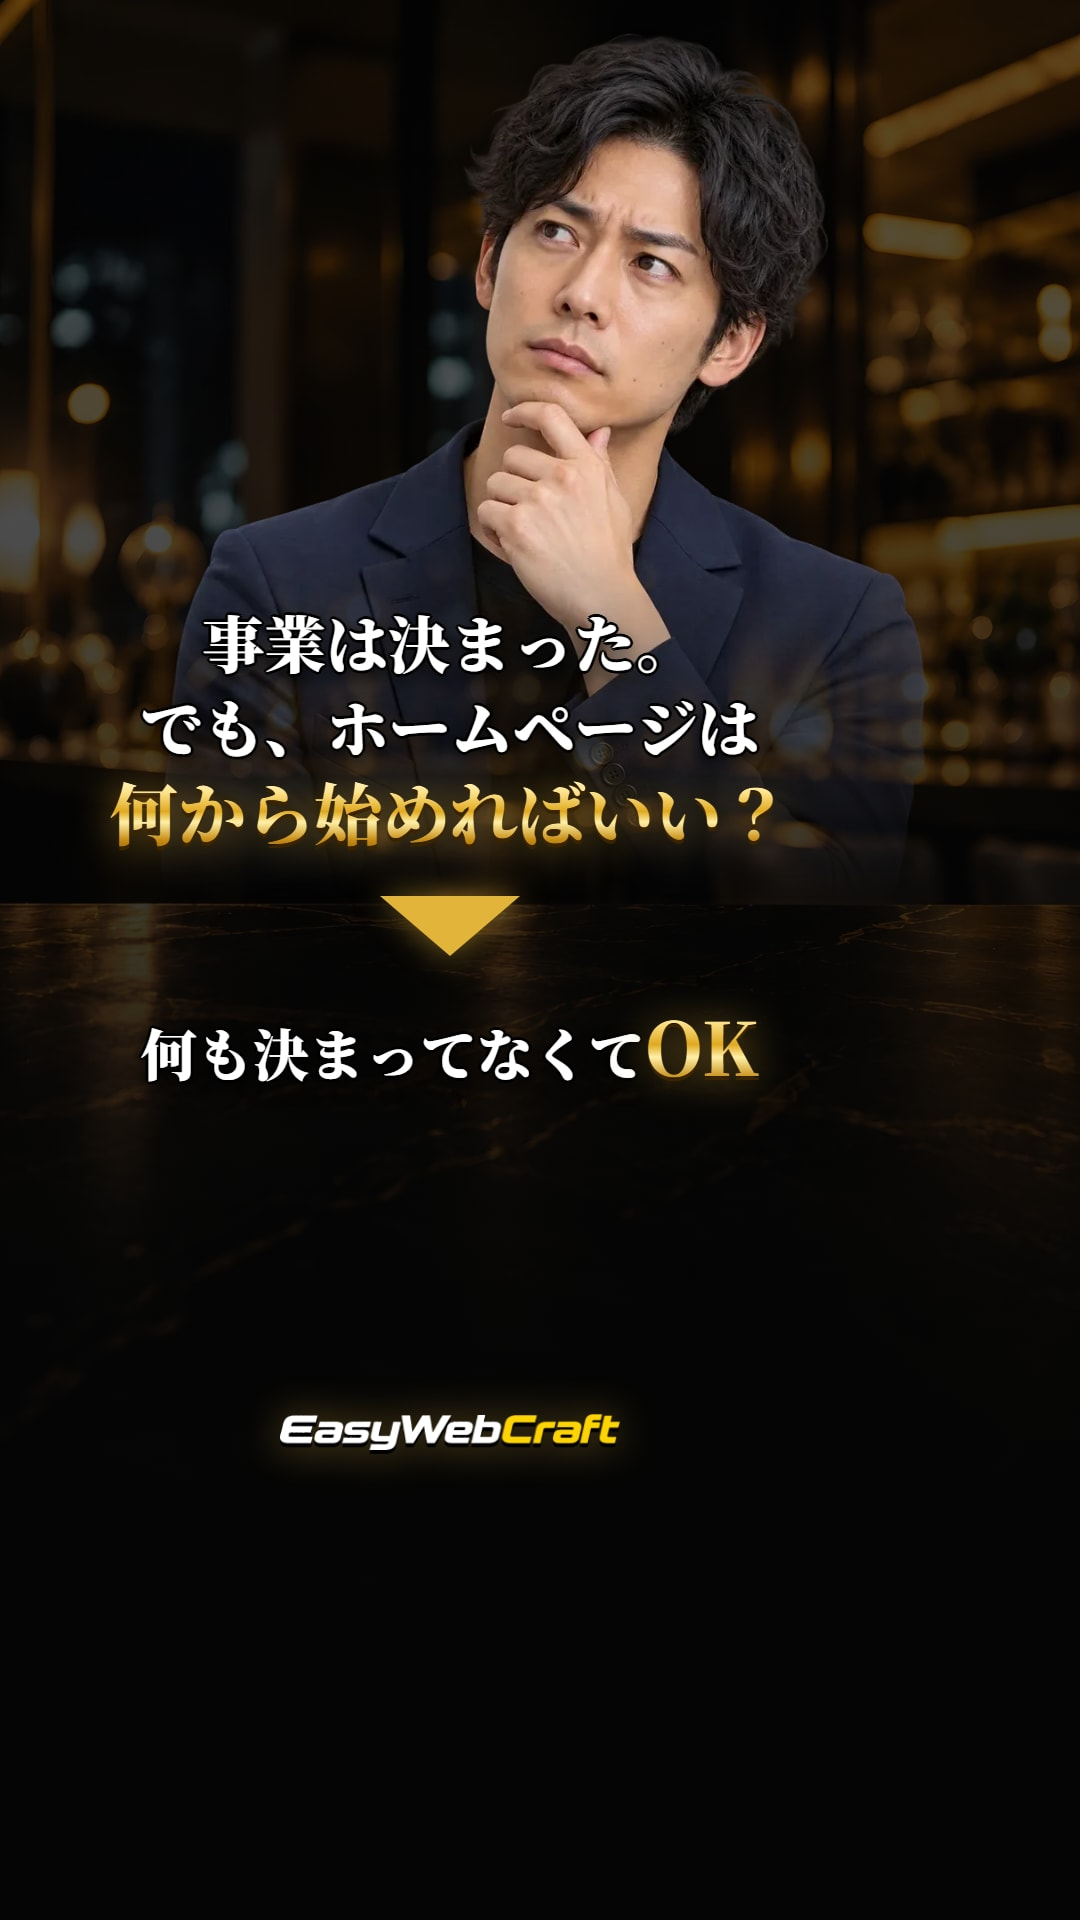
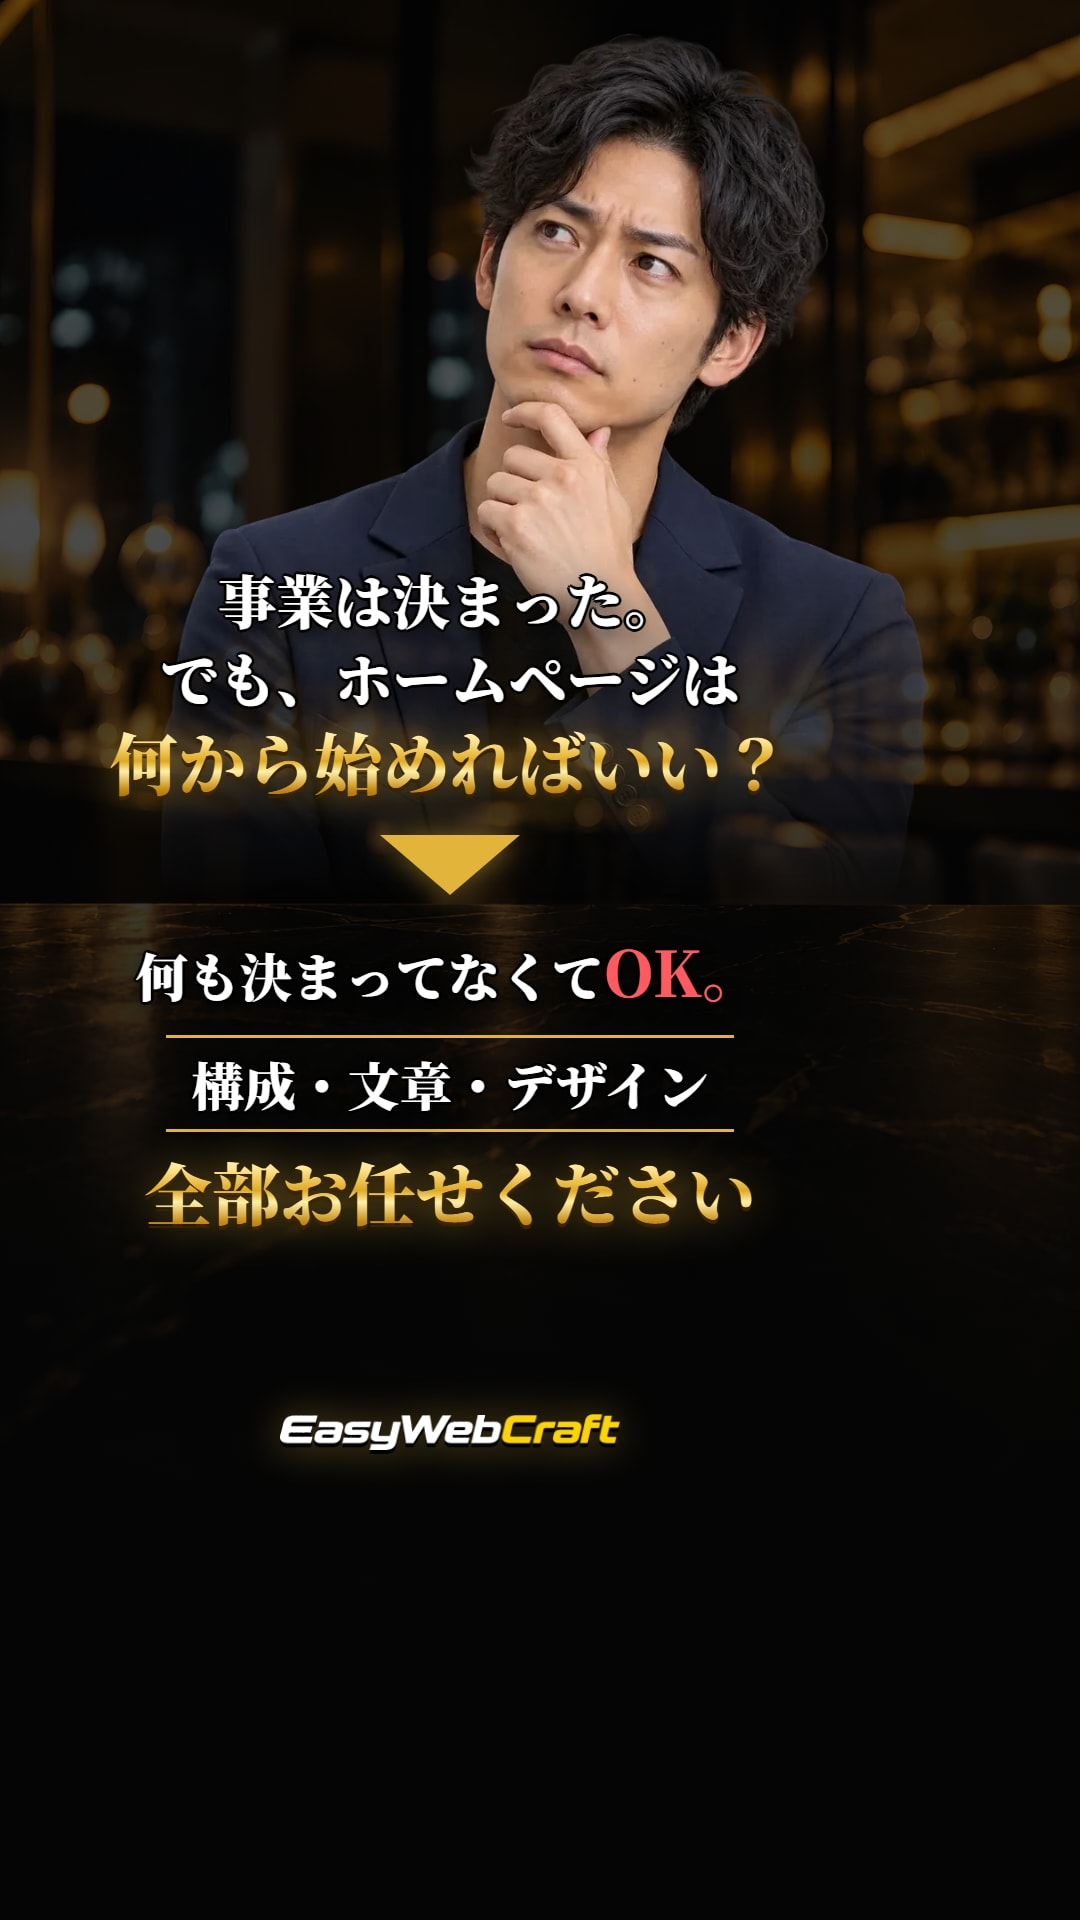
C4を「何も決まってなくてOK。構成・文章・デザイン全部お任せください」の構成に
Claude-Session: https://claude.ai/code/session_01G65TiHfa1BUco43NvNDLJF

Changed region(s): [[0.0917, 0.2812, 0.7333, 0.6562]]

diff --git a/challenge/index.html b/challenge/index.html
@@ -48,7 +48,7 @@ code{background:var(--bg); padding:0 5px; border-radius:4px; font-size:.88em; wo
     <div class="card"><img src="jpg/c2.jpg?v=10" alt="こんなに安くて本当にちゃんとしたHPができるの？"><div class="no"><b>C2</b>安すぎて不安？</div><span class="tgt">価格に不安がある人</span><span class="star">主力候補</span><p class="cap">起業したばかりの方へ。こんなに安くて本当にちゃんとしたHPができるの？契約前に実物を見せます。HPデザイン案0円。</p></div>
     <div class="card"><img src="jpg/c2b.jpg?v=10" alt="月額5,980円〜 安すぎて、ちょっと不安？"><div class="no"><b>C2-B</b>価格を先に見せる版</div><span class="tgt">価格に不安がある人</span><span class="star">C2とA/Bテスト</span><p class="cap">起業したばかりの方へ。制作費0円・月額5,980円〜。安すぎて、ちょっと不安？だから契約前に実物を見せます。HPデザイン案0円。</p></div>
     <div class="card"><img src="jpg/c3.jpg?v=12" alt="起業した。でも、どこに頼めばいい？"><div class="no"><b>C3</b>どこに頼めばいい？</div><span class="tgt">依頼先で迷っている人</span><span class="star">新規</span><p class="cap">起業した。ホームページも必要。でも、どこに頼めばいい？制作会社？フリーランス？自分で？デザインを見てから決めてください。</p></div>
-    <div class="card"><img src="jpg/c4.jpg?v=10" alt="事業は決まった。でも、ホームページは何から始めればいい？"><div class="no"><b>C4</b>何から始めれば？</div><span class="tgt">HPの知識がない人</span><span class="star">顔出し</span><p class="cap">事業は決まった。でも、ホームページは何から始めればいい？何も決まってなくてOK。</p></div>
+    <div class="card"><img src="jpg/c4.jpg?v=13" alt="事業は決まった。でも、ホームページは何から始めればいい？"><div class="no"><b>C4</b>何から始めれば？</div><span class="tgt">HPの知識がない人</span><span class="star">顔出し</span><p class="cap">事業は決まった。でも、ホームページは何から始めればいい？何も決まってなくてOK。構成・文章・デザイン、全部お任せください。</p></div>
     <div class="card"><img src="jpg/c5.jpg?v=11" alt="起業したばかり。やることだらけでHPまで手が回らない"><div class="no"><b>C5</b>手が回らない</div><span class="tgt">本業が忙しい人</span><span class="star">顔出し</span><p class="cap">起業したばかり。やることだらけでHPまで手が回らない。まとめてお任せください。</p></div>
     <div class="card"><img src="jpg/c6.jpg?v=10" alt="起業したばかりだから、HPに大金はかけられない"><div class="no"><b>C6</b>安心3点セット</div><span class="tgt">比較検討中の人（リターゲティング向き）</span><p class="cap">HPに大金はかけられない。初期費用0円・デザイン案0円・月額5,980円〜（税別）。</p></div>
   </div>

diff --git a/challenge/ads.html b/challenge/ads.html
@@ -191,6 +191,14 @@ body{width:1080px; font-family:"Noto Sans JP",sans-serif; color:#fff; background
 #c3 .arrow{transform:scale(1.3); margin:16px 0}
 #c3 .g40{height:80px !important}
 #c3 .g20{height:40px !important}
+/* C4：構成・文章・デザイン全部お任せ（2026-09-30） */
+#c4 .in{top:560px !important}
+#c4 .c4-q1{font-size:58px !important; line-height:1.35}
+#c4 .c4-q2{font-size:66px !important; line-height:1.3; white-space:nowrap}
+#c4 .c4-a1{font-size:52px !important; white-space:nowrap}
+#c4 .c4-a1 .red{font-size:1.2em}
+#c4 .c4-a2{font-size:52px !important; color:#fff; padding:8px 26px; border-top:3px solid var(--gold); border-bottom:3px solid var(--gold)}
+#c4 .c4-a3{font-size:78px !important; margin-top:10px; white-space:nowrap}
 </style>
 </head>
 <body>
@@ -274,16 +282,20 @@ body{width:1080px; font-family:"Noto Sans JP",sans-serif; color:#fff; background
 <section class="ad face" id="c4">
   <div class="photo think r"></div>
   <div class="in">
-    <p class="serif outline" style="font-size:62px; line-height:1.35">事業は決まった。<br>でも、ホームページは</p>
-    <p class="serif gold" style="font-size:80px; line-height:1.3; white-space:nowrap">何から始めればいい？</p>
-    <div class="g40"></div>
+    <p class="serif outline c4-q1">事業は決まった。<br>でも、ホームページは</p>
+    <p class="serif gold c4-q2">何から始めればいい？</p>
+    <div class="g30"></div>
     <div class="arrow"></div>
-    <div class="g40"></div>
-    <p class="serif outline" style="font-size:56px; line-height:1.35">何も決まってなくて<span class="gold" style="font-size:1.3em">OK</span></p>
+    <div class="g30"></div>
+    <p class="serif outline c4-a1">何も決まってなくて<span class="red">OK。</span></p>
+    <div class="g20"></div>
+    <p class="serif outline c4-a2">構成・文章・デザイン</p>
+    <p class="serif gold c4-a3">全部お任せください</p>
     <div class="sp"></div>
     <img class="logo blogo" src="img/logo-fv.webp" alt="EasyWebCraft">
     <p class="cta">無料でデザイン案を見てみる</p>
   </div>
+  
 </section>
 
 <!-- C5 本業が忙しくて手が回らない -->

diff --git a/challenge/tiktok-view.html b/challenge/tiktok-view.html
@@ -119,7 +119,7 @@ figcaption b{display:inline-block; background:#e3b43a; color:#1a1200; border-rad
 </figure>
 <figure class="ph">
   <div class="scr">
-    <img class="cr" src="jpg/c4.jpg?v=10" alt="何から始めれば？">
+    <img class="cr" src="jpg/c4.jpg?v=13" alt="何から始めれば？">
     <div class="top"><span>フォロー中</span><b>おすすめ</b><i>⌕</i></div>
     <div class="rail">
       <div class="av"><img src="img/logo-fv.webp" alt=""><em>＋</em></div>
@@ -130,7 +130,7 @@ figcaption b{display:inline-block; background:#e3b43a; color:#1a1200; border-rad
     </div>
     <div class="cap">
       <p class="acct">EasyWebCraft</p>
-      <p class="txt">事業は決まった。でも、ホームページは何から始めればいい？何も決まってなくてOK。</p>
+      <p class="txt">事業は決まった。でも、ホームページは何から始めればいい？何も決まってなくてOK。構成・文章・デザイン、全部お任せください。</p>
       <p class="sp">スポンサー　♪ 楽曲名 - アーティスト</p>
       <a class="btn">詳しくはこちら <span>›</span></a>
     </div>
